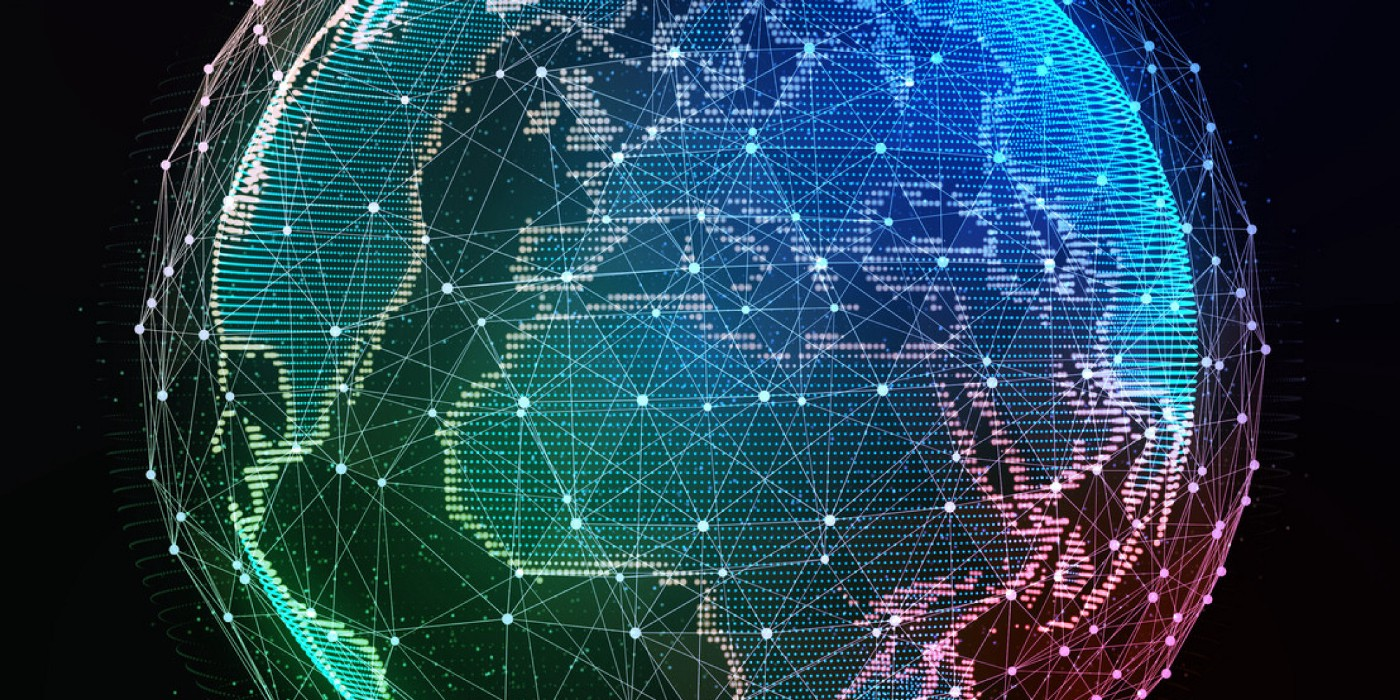
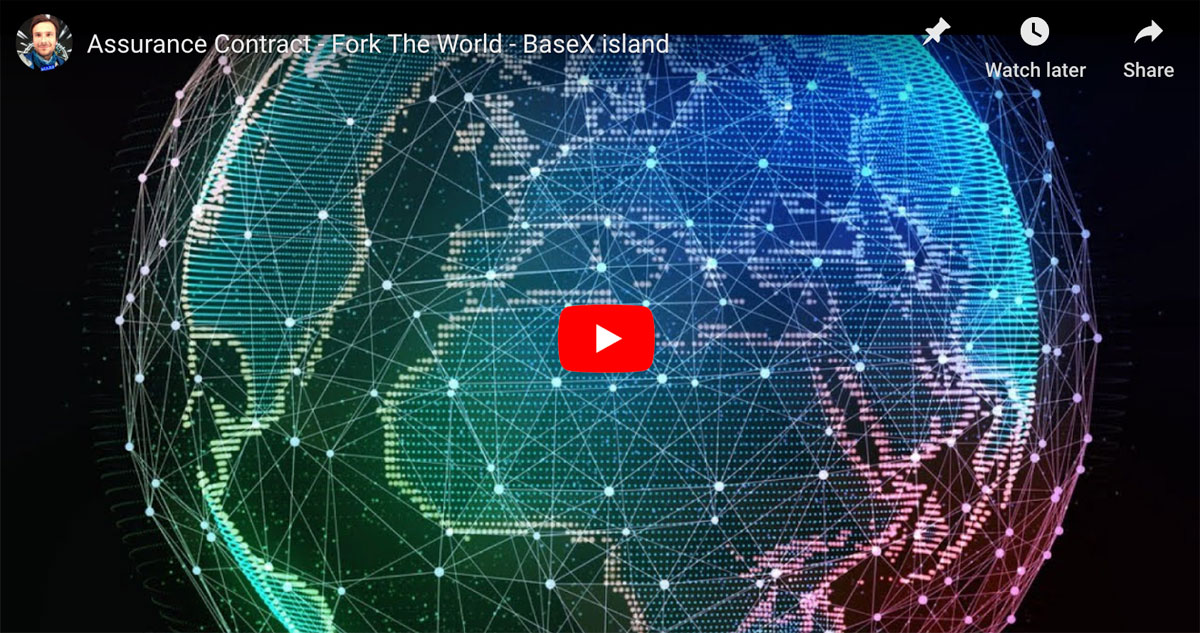
Boom!

diff --git a/readme.md b/readme.md
@@ -1,18 +1,16 @@
-# Assurance Contract
+# New Fork Order aka "Assurance Contract"
 
 Medium introduction: https://medium.com/@basexisland/assurance-contract-772fb7eb0b58
 
 Fork The World is 100% aligned with the vision of the BaseX
 
-![](https://raw.githubusercontent.com/basexisland/assurance-contract/master/new-fork-order.jpeg)
+Quick pitch: https://www.youtube.com/watch?v=7lO6uYdzun4
 
-# Mainnent `basex.eth`
+(https://www.youtube.com/watch?v=7lO6uYdzun4)[![](https://raw.githubusercontent.com/basexisland/assurance-contract/master/new-fork-order.jpeg)]
 
+# `basex.eth`
 
-
-
-
-
+For the time being, the real funds are deployed Gnosis Multisig and calculations happen in Google Docs.
 
 
 # Testnet Only
@@ -20,7 +18,7 @@ Fork The World is 100% aligned with the vision of the BaseX
 
 * Assurance: https://ropsten.etherscan.io/address/0xb95db35782ab5ee844a1faa5d5a542a88d832aff#code
 
-* BSXO: https://ropsten.etherscan.io/address/0x7976cf3cf40bb728d6e873aefcdf32002e6dd618
+* BSXO (BaseX Operations) token: https://ropsten.etherscan.io/address/0x7976cf3cf40bb728d6e873aefcdf32002e6dd618
 
 
 
